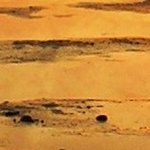
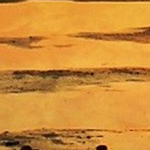
WIP

diff --git a/generate.go b/generate.go
@@ -33,7 +33,7 @@ func main() {
 
 			// Crop the image
 			x := ((i+1) * 76.0) + (i * 150.0)
-			y := 192.0 + (j * 150.0) + (j * 134.0)
+			y := 192.0 + (j * 150.0) + (j * 128.0)
 			cropArg := fmt.Sprintf("crop=150:150:%d:%d", x, y)
 			cmd = exec.Command("ffmpeg", "-i", "wallpaper_scaled.png", "-vf", cropArg, fileName)
 			var stderr bytes.Buffer
